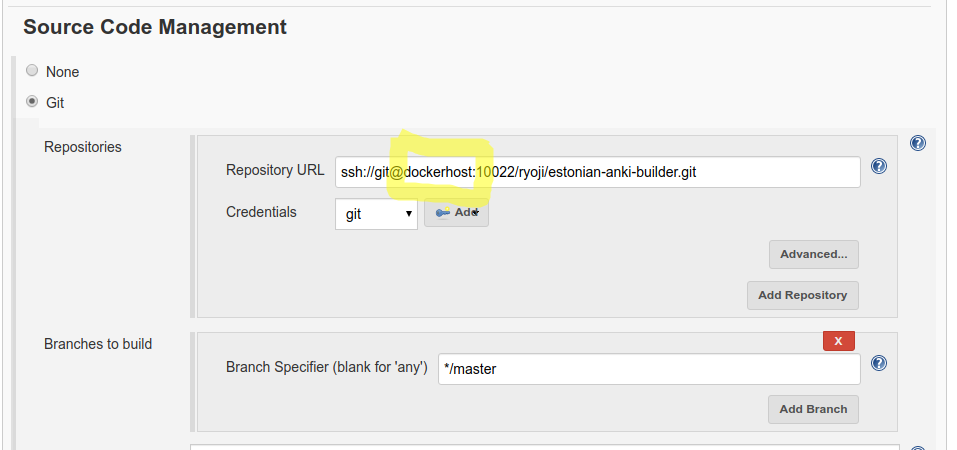
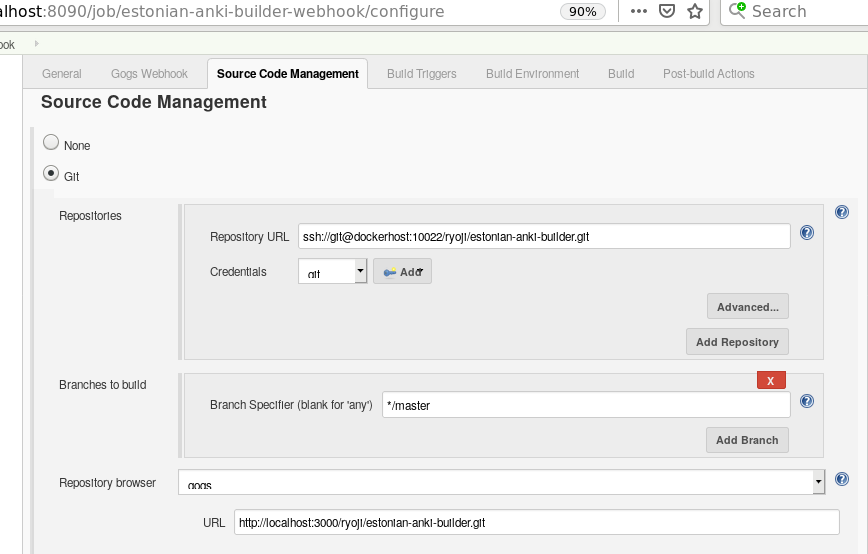
ci setup

diff --git a/src/test/java/com/github/growingspaghetti/eesti/AppTest.java b/src/test/java/com/github/growingspaghetti/eesti/AppTest.java
@@ -18,6 +18,14 @@ import org.junit.Test;
 import com.github.growingspaghetti.eesti.util.CsvUtils;
 
 public class AppTest {
+    @Test
+    public void testFoo() throws Exception {
+        System.out.println("    @Test\n"
+                           + "    public void testFoo() throws Exception {\n"
+                           + "        System.out.println(\"mvn test\");\n"
+                           + "    }");
+    }
+
     //@Test
     public void downloadResources() throws Exception {
         for (int i = 1; i < 19; i++) {
@@ -83,7 +91,7 @@ public class AppTest {
         FileUtils.writeLines(new File("loeesen/anki.txt"), "UTF-8", anki, false);
     }
 
-    @Test
+    //@Test
     public void mapEvalCodes() throws Exception {
         List<String[]> lines = CsvUtils.readCsv(new File("loeesen.csv"), ',');
         StringBuilder  sbMp3 = new StringBuilder();

diff --git a/CI Setup.md b/CI Setup.md
@@ -85,21 +85,110 @@ services:
       - "dockerhost:$DOCKERHOST"
 ```
 
+## selenium
+
+![selenium.png](./imgs/selenium.png)
+
+```
+cd selenium
+./docker-run.sh
+```
+
+open localhost:4444
+
+```
+version: "3.3"
+
+services:
+  selenium-hub:
+    image: selenium/hub:3.141.0
+    ports:
+      - "4444:4444"
+    networks: [selenium-grid]
+    environment:
+      - GRID_BROWSER_TIMEOUT=3400
+      - GRID_TIMEOUT=3600
+    restart: always
+    extra_hosts:
+      - "dockerhost:$DOCKERHOST"
+  chrome-node:
+    image: selenium/node-chrome-debug:3.141.0
+    ports:
+      - "5900:5900"
+    environment:
+      HUB_PORT_4444_TCP_ADDR: selenium-hub
+      HUB_PORT_4444_TCP_PORT: 4444
+    volumes:
+      - ./hub:/dev/random
+    networks: [selenium-grid]
+    links:
+      - selenium-hub:selenium-hub
+    depends_on:
+      - selenium-hub
+
+
+networks:
+  selenium-grid:
+    driver: bridge
+    external: false
+```
+
 # setup 2
 
 ## gitea
+
+![gitea_settings.png](./imgs/gitea_settings.png)
 
 ![gitea_account_key.png](./imgs/gitea_account_key.png)
 
 ## jenkins
 
-![jenkins-git-docker-host.png](./imgs/jenkins-git-docker-host.png)
-
+### install gog plugin
 https://plugins.jenkins.io/gogs-webhook
 
 ![jenkins-gogs.png](./imgs/jenkins-gogs.png)
 
+### git ssh credentials
+
+Jenkins > Credentials > System
+
+![jenkins-git-credentials.png](./imgs/jenkins-git-credentials.png)
+
+### git host
+ * use `dockerhost` as the DNS name.
+ * Credentials:`git`
+
+![jenkins-git-docker-host.png](./imgs/jenkins-git-docker-host.png)
+
+### attach webhook
 ![gitea-gogs-webhook.png](./imgs/gitea-gogs-webhook.png)
 
-# webhook
-# selenium
+### build (shell)
+
+for example,
+
+![jenkins-shell.png](./imgs/jenkins-shell.png)
+
+![jenkins-webhook-shell-output.png](./imgs/jenkins-webhook-shell-output.png)
+
+### build (maven)
+
+for example,
+
+## selenium
+![vnc.png](./imgs/vnc.png)
+
+```
+sudo snap install remmina
+snap run remmina
+localhost:5900 (VNC)
+User password: secret
+```
+
+Eclipse > run EestiLoecsenSelenium.java
+
+In dockered Jenkins, this address must be `dockerhost` instead of `127.0.0.1`
+
+![sel-run.png](./imgs/sel-run.png)
+
+![vnc-run.png](./imgs/vnc-run.png)

diff --git a/jenkins/README.md b/jenkins/README.md
@@ -1,0 +1,9 @@
+Required:
+
+```
+mkdir local_jenkins_home
+chown 1000 local_jenkins_home
+chgrp 1000 local_jenkins_home
+```
+
+* https://github.com/jenkinsci/docker/issues/177
